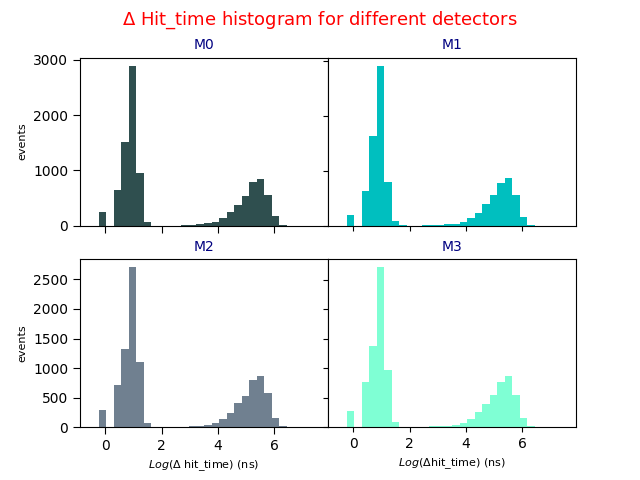
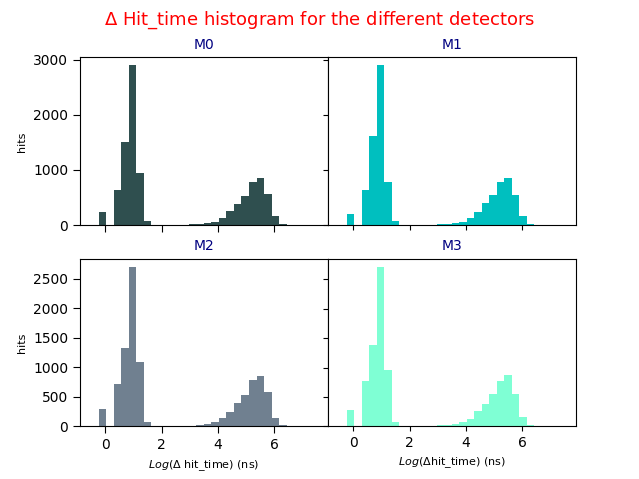
last updating version

diff --git a/E5/E5_e2.py b/E5/E5_e2.py
@@ -1,16 +1,20 @@
 #Esercitazione 5 esercizio 2
 
 #Dati
+#pacchetto get-mcf-data
 #python3 get_data.py --year 2023 --exn 5 --outdir percorso/cartella/esercitazione
 
 import sys, os
 import numpy as np
 import pandas as pd
+import matplotlib
+matplotlib.use('TkAgg') 
 import matplotlib.pyplot as plt
 import reco 
 
 #FUNCTIONS and TOOLS
 def Delta_ht(list):
+    """ crea un array con la differenza di tempo tra 2 Hit consecutivi"""
     delta=np.empty(0)
     for i in range(1, len(list)):
         term= (list[i] - list[i-1])
@@ -25,16 +29,19 @@ def Delta1_ht(hits):
     return delta
 
 def dati_to_events(datas):
-    eventi=np.empty(0)
+    """ produce un array di reco.Hit dagli hit registrati nei file"""
+    hits=np.empty(0)
     for i in range(1, datas.shape[0]):
         m=int(datas['mod_id'][i])
         d=int(datas['det_id'][i])
         h=int(datas['hit_time'][i])
         term= reco.Hit(m,d,h)
-        eventi=np.append(eventi,term)
-    return eventi
+        hits=np.append(hits,term)
+    return hits
 
-def all_reco(a1, a2): #a1 e a2 sono già ordinati temporalmente.
+def all_reco(a1, a2): 
+    """ ordina temporalmente 2 array di reco.Hit
+        NOTA: 'a1' e 'a2' sono già ordinati temporalmente. """
     delta= np.empty(0)
     s=0
     z=0
@@ -54,51 +61,50 @@ def all_reco(a1, a2): #a1 e a2 sono già ordinati temporalmente.
     return delta
 
 #PASSO 1
-M0_events=pd.read_csv('/home/nicola_polito/get-mcf-data/dati/ex5_data/hit_times_M0.csv')
-M1_events=pd.read_csv('/home/nicola_polito/get-mcf-data/dati/ex5_data/hit_times_M1.csv')
-M2_events=pd.read_csv('/home/nicola_polito/get-mcf-data/dati/ex5_data/hit_times_M2.csv')
-M3_events=pd.read_csv('/home/nicola_polito/get-mcf-data/dati/ex5_data/hit_times_M3.csv')
+M0_hits=pd.read_csv('/home/nicola_polito/MCF/dati/dati-e5/hit_times_M0.csv', sep=";")
+M1_hits=pd.read_csv('/home/nicola_polito/MCF/dati/dati-e5/hit_times_M1.csv', sep=";")
+M2_hits=pd.read_csv('/home/nicola_polito/MCF/dati/dati-e5/hit_times_M2.csv', sep=";")
+M3_hits=pd.read_csv('/home/nicola_polito/MCF/dati/dati-e5/hit_times_M3.csv', sep=";")
 
-
-print(M0_events.head())
-print(M0_events.columns)
+print(M0_hits.head())
+print(M0_hits.columns)
 
 # Hist Hit-Time
 fig1 = plt.figure()
 gs = fig1.add_gridspec(2,2, hspace=0.2, wspace=0)
-(ax1,ax2), (ax3, ax4) = gs.subplots()
-plt.suptitle(' Hit_time hitogram for different detectors ', fontsize=13, color = 'red')
+(ax1,ax2), (ax3, ax4) = gs.subplots(sharex=True)
+plt.suptitle(' Hit_time hitogram for the different detectors ', fontsize=13, color = 'red')
 
 #M0
-M0_log_events= np.log10(M0_events['hit_time'])
-n, bis, p = ax1.hist(M0_log_events, bins=40, range=(5,9.5), color='darkslategray')
+M0_log_hits= np.log10(M0_hits['hit_time'])
+n, bis, p = ax1.hist(M0_log_hits, bins=40, range=(5,9.5), color='darkslategray')
 ax1.set_title('M0', color='navy', fontsize=10)
-ax1.set_ylabel('events', fontsize=8)
+ax1.set_ylabel('hits', fontsize=8)
 ax1.set_xlabel('Log(hit_time) (ns)', fontsize=8)
 ax1.tick_params(axis='x', size=5)
 ax1.tick_params(axis='y',size=5)
 
 #M1
-M1_log_events= np.log10(M1_events['hit_time'])
-n, bis, p = ax2.hist(M1_log_events, bins=40, range=(5,9.5), color='c')
+M1_log_hits= np.log10(M1_hits['hit_time'])
+n, bis, p = ax2.hist(M1_log_hits, bins=40, range=(5,9.5), color='c')
 ax2.set_title('M1', color='navy', fontsize=10)
-ax2.set_ylabel('events', fontsize=8)
+ax2.set_ylabel('hits', fontsize=8)
 ax2.set_xlabel('Log(hit_time) (ns)', fontsize=8)
 
 #M2
-M2_log_events= np.log10(M2_events['hit_time'])
-n, bis, p = ax3.hist(M2_log_events, bins=40, range=(5,9.5), color='slategray')
+M2_log_hits= np.log10(M2_hits['hit_time'])
+n, bis, p = ax3.hist(M2_log_hits, bins=40, range=(5,9.5), color='slategray')
 ax3.set_title('M2', color='navy', fontsize=10)
-ax3.set_ylabel('events', fontsize=8)
+ax3.set_ylabel('hits', fontsize=8)
 ax3.set_xlabel('Log(hit_time) (ns)', fontsize=8)
 ax3.tick_params(axis='x', size=5)
 ax3.tick_params(axis='y',size=5)
 
 #M3
-M3_log_events= np.log10(M3_events['hit_time'])
-n, bis, p = ax4.hist(M3_log_events, bins=40, range=(5,9.5), color='aquamarine')
+M3_log_hits= np.log10(M3_hits['hit_time'])
+n, bis, p = ax4.hist(M3_log_hits, bins=40, range=(5,9.5), color='aquamarine')
 ax4.set_title('M3', color='navy', fontsize=10)
-ax4.set_ylabel('events', fontsize=8)
+ax4.set_ylabel('hits', fontsize=8)
 ax4.set_xlabel('Log(hit_time) (ns)', fontsize=8)
 
 for ax in fig1.get_axes():
@@ -109,102 +115,118 @@ plt.show()
 #Hist Delta Hit Time
 fig2 = plt.figure()
 gs = fig2.add_gridspec(2,2, hspace=0.2, wspace=0)
-(ax1,ax2), (ax3, ax4) = gs.subplots()
-plt.suptitle('$\Delta$ Hit_time histogram for different detectors ', fontsize=13, color = 'red')
+(ax1,ax2), (ax3, ax4) = gs.subplots(sharex=True)
+plt.suptitle(r'$\Delta$ Hit_time histogram for the different detectors ', fontsize=13, color = 'red')
 
 #M0
-delta_M0=Delta_ht(M0_events['hit_time'])
-dM0_log_events=np.log10(delta_M0)
-n, bis, p = ax1.hist(dM0_log_events, bins=30, range=(-0.5, 7.5), color='darkslategray')
+delta_M0=Delta_ht(M0_hits['hit_time'])
+dM0_log_hits=np.log10(delta_M0)
+n, bis, p = ax1.hist(dM0_log_hits, bins=30, range=(-0.5, 7.5), color='darkslategray')
 ax1.set_title('M0', color='navy', fontsize=10)
-ax1.set_ylabel('events', fontsize=8)
-ax1.set_xlabel('$Log(\Delta$ hit_time) (ns)', fontsize=8)
+ax1.set_ylabel('hits', fontsize=8)
+ax1.set_xlabel(r'$Log(\Delta$ hit_time) (ns)', fontsize=8)
 ax1.tick_params(axis='x', size=5)
 ax1.tick_params(axis='y',size=5)
 
-#M2
-delta_M1=Delta_ht(M1_events['hit_time'])
-dM1_log_events=np.log10(delta_M1)
-dM1_log_events=np.log10(Delta_ht(M1_events['hit_time']))
-n, bis, p = ax2.hist(dM1_log_events, bins=30, range=(-0.5, 7.5), color='c')
+#M1
+delta_M1=Delta_ht(M1_hits['hit_time'])
+dM1_log_hits=np.log10(delta_M1)
+dM1_log_hits=np.log10(Delta_ht(M1_hits['hit_time']))
+n, bis, p = ax2.hist(dM1_log_hits, bins=30, range=(-0.5, 7.5), color='c')
 ax2.set_title('M1', color='navy', fontsize=10)
-ax2.set_ylabel('events', fontsize=8)
-ax2.set_xlabel('$Log(\Delta$ hit_time) (ns)', fontsize=8)
+ax2.set_ylabel('hits', fontsize=8)
+ax2.set_xlabel(r'$Log(\Delta$ hit_time) (ns)', fontsize=8)
 
 #M2
-delta_M2=Delta_ht(M2_events['hit_time'])
-dM2_log_events=np.log10(delta_M2)
-dM2_log_events=np.log10(Delta_ht(M2_events['hit_time']))
-n, bis, p = ax3.hist(dM2_log_events, bins=30, range=(-0.5, 7.5), color='slategray')
+delta_M2=Delta_ht(M2_hits['hit_time'])
+dM2_log_hits=np.log10(delta_M2)
+dM2_log_hits=np.log10(Delta_ht(M2_hits['hit_time']))
+n, bis, p = ax3.hist(dM2_log_hits, bins=30, range=(-0.5, 7.5), color='slategray')
 ax3.set_title('M2', color='navy', fontsize=10)
-ax3.set_ylabel('events', fontsize=8)
-ax3.set_xlabel('$Log(\Delta$ hit_time) (ns)', fontsize=8)
+ax3.set_ylabel('hits', fontsize=8)
+ax3.set_xlabel(r'$Log(\Delta$ hit_time) (ns)', fontsize=8)
 ax3.tick_params(axis='x', size=5)
 ax3.tick_params(axis='y',size=5)
 
 #M3
-delta_M3=Delta_ht(M3_events['hit_time'])
-dM3_log_events=np.log10(delta_M3)
-dM3_log_events=np.log10(Delta_ht(M3_events['hit_time']))
-n, bis, p = ax4.hist(dM3_log_events, bins=30, range=(-0.5, 7.5), color='aquamarine')
+delta_M3=Delta_ht(M3_hits['hit_time'])
+dM3_log_hits=np.log10(delta_M3)
+dM3_log_hits=np.log10(Delta_ht(M3_hits['hit_time']))
+n, bis, p = ax4.hist(dM3_log_hits, bins=30, range=(-0.5, 7.5), color='aquamarine')
 ax4.set_title('M3', color='navy', fontsize=10)
-ax4.set_ylabel('events', fontsize=8)
-ax4.set_xlabel('$Log(\Delta $hit_time) (ns)', fontsize=8)
+ax4.set_ylabel('hits', fontsize=8)
+ax4.set_xlabel(r'$Log(\Delta $hit_time) (ns)', fontsize=8)
 
 for ax in fig2.get_axes():
     ax.label_outer()
 
 plt.show()
 
-fig1.savefig('E5/hit_time hist.png')
-fig2.savefig('E5/delta_hit_time hist.png')
+fig1.savefig('hit_time hist.png')
+fig2.savefig('delta_hit_time hist.png')
 
 '''
 INTERPRETAZIONE DEI GRAFICI:
-Gli istogrammi degli hit times per i 4 differenti moduli mostrano che ci sono molti eventi di hit verso la fine dell'acquisizione(in particolare intorno ai 0.7 s) 
- e pochi all'inizio della stessa e ciò è vero per tutti e 4 i moduli.
-Gli istogrammi della differenza tra due hit time successivi mostrano che vi sono degli eventi che hanno uno delta_hit molto piccolo (eventi molto vicini tra di loro), 
-mentre quasi tutti gli altri presentano una differenza temporale molto più significativa. In particolare, quasi nessun evento ha una distanza temporale dal successivo compresa tra 40 e 5600 ns 
-e, poichè gli hit appartenenti ad uno stesso evento saranno presumibilmente raggruppati nel tempo, mentre hit relativi ad eventi diversi avranno una separazione temporale maggiore,
+Gli istogrammi degli hit times per i 4 differenti moduli mostrano che ci sono molti eventi di hit
+verso la fine dell'acquisizione (in particolare intorno ai 0.7 s) e pochi all'inizio della stessa,
+e ciò è vero per tutti e 4 i moduli.
+
+Gli istogrammi della differenza tra due hit time successivi mostrano che la maggior parte degli eventi
+hanno un delta_hit molto piccolo (eventi molto vicini tra di loro), 
+mentre tutti gli altri presentano una differenza temporale più significativa.
+ 
+In particolare, quasi nessun evento ha una distanza temporale dal successivo compresa tra 40 e 5600 ns e,
+poichè gli hit appartenenti ad uno stesso evento saranno presumibilmente raggruppati nel tempo,
+mentre hit relativi ad eventi diversi avranno una separazione temporale maggiore,
 ciò distingue tra un evento di interesse e un evento di non interesse.
-Complessivamente si può evincere che si hanno eventi di interesse verso la fine dell'acquisizione registrati da tutti e 4 i moduli.
+
+Complessivamente si può evincere che si hanno eventi di interesse verso la fine dell'acquisizione
+registrati da tutti e 4 i moduli.
+
 '''
 
 #PASSO 3
 #reco.Hit arrays
-print(type(M0_events))
+print(type(M0_hits))
 
-array_M0_events= dati_to_events(M0_events) 
-array_M1_events= dati_to_events(M1_events)
-array_M2_events= dati_to_events(M2_events)
-array_M3_events= dati_to_events(M3_events)
+array_M0_hits= dati_to_events(M0_hits) 
+array_M1_hits= dati_to_events(M1_hits)
+array_M2_hits= dati_to_events(M2_hits)
+array_M3_hits= dati_to_events(M3_hits)
 
-print(type(array_M0_events[3])) #array di reco.Hit
-print(type(array_M0_events[3].id_module)) #ora sono int
+print(type(array_M0_hits[3])) #array di reco.Hit
+print(type(array_M0_hits[3].id_module)) #ora sono int
 
 print('\n')
-print(array_M0_events[0], '\n')
+print(array_M0_hits[0], '\n')
 
 #all_reco.Hit
-arr1=all_reco(array_M0_events, array_M1_events)
+arr1=all_reco(array_M0_hits, array_M1_hits)
 print(len(arr1)) # dovrebbe essere 20384
-arr2=all_reco(arr1, array_M2_events)
+arr2=all_reco(arr1, array_M2_hits)
 print(len(arr2)) # dovrebbe essere 30577
-all_ord_events=all_reco(arr2, array_M3_events)
-print(len(all_ord_events)) #dovrebbe essere 40730
+all_ord_hits=all_reco(arr2, array_M3_hits)
+print(len(all_ord_hits)) #dovrebbe essere 40730
 
 
 #Istogramma dei delta_t tra RECO.HIT consecutivi
-delta_all= Delta1_ht(all_ord_events)
+
+
+delta_all= Delta_ht(all_ord_hits)
 print(len(delta_all)) #dovrebbe essere 40729
 delta_all_log= np.log10(delta_all)
 
-n, bis, p = plt.hist(delta_all_log, bins=35, range=(-0.5, 7.5), color='darkslategray', label='all_events')
+n, bis, p = plt.hist(delta_all_log, bins=35, range=(-0.5, 7.5), color='darkslategray', label='all_hits')
 plt.suptitle('Hinstogram of $\Delta_t$ for all hits', color='red')
 plt.xlabel('$Log(\Delta$ hit_time)', fontsize=10)
-plt.ylabel('Events', fontsize=10)
+plt.ylabel('hits', fontsize=10)
 plt.legend(fontsize=10)
+plt.savefig('delta_t for all hits.png')
 plt.show()
-plt.savefig('E5/delta_t for all hits.png')
 
-#Come stabilire la finestra temporale da applicare ai $\Delta t$ che permetta di raggruppare gli *Hit* dello stesso evento ma separi quelli apparteneti ad eventi differenti?
+
+""" Come stabilire la finestra temporale da applicare ai $\Delta t$
+    che permetta di raggruppare gli *Hit* dello stesso evento ma separi
+    quelli apparteneti ad eventi differenti?
+    Pensare a come dovrebbe essere strutturata una eventuale classe Event
+    per descrivere l'evento fisico come osservato dal rivelatore (quindi basata suglli Hit). """

diff --git a/E5/reco.py b/E5/reco.py
@@ -17,34 +17,36 @@ class Hit:
         self.id_detector=dect
         self.hit_time_rev= ht
 
+    # //
     def __repr__(self):
-        return 'Module: {:} __ Detector: {:} __ hit_time {:}'.format(self.id_module, self.id_detector, self.hit_time_rev)
+        return 'Module: {:} __ Detector: {:} __ hit_time: {:}'.format(self.id_module, self.id_detector, self.hit_time_rev)
     
     def __str__(self):
-        return 'Module: {:} -- Detector: {:} -- hit_time {:}'.format(self.id_module, self.id_detector, self.hit_time_rev)
+        return 'Module: {:} -- Detector: {:} -- hit_time: {:}'.format(self.id_module, self.id_detector, self.hit_time_rev)
 
-    def __eq__(self, other):
-        return self.hit_time_rev == other.hit_time_rev
-    
+
+    #COMPARATORI DI CONFRONTO
+
     def __lt__(self, other):
         return self.hit_time_rev < other.hit_time_rev
     
     def __gt__(self, other):
         return self.hit_time_rev > other.hit_time_rev
-    
-    def __sub__(self, other):
-        return self.hit_time_rev - other.hit_time_rev
-    
-    def __add__(self, other):
-        return self.hit_time_rev + other.hit_time_rev
 
-    def pos_module(self, other): #ordina 2 hit time in base al modulo dal quale sono stati rilevati
+    #//
+    def __eq__(self, other):
+        return self.hit_time_rev == other.hit_time_rev 
+
+    def pos_module(self, other): 
+        """ ordina 2 hit time in base al modulo dal quale sono stati rilevati """
         ord = False
         if(self.id_module<other.id_module or self.id_module==other.id_module):
             ord=True
         return ord
         
-    def pos_detector(self, other): #ordina 2 hit time in base al sensore dal quale sono stati rivelati (se sono relativi a 2 moduli diversi prevale il numero del modulo)
+    def pos_detector(self, other): 
+        """ ordina 2 hit time in base al sensore dal quale sono stati rivelati 
+            (se sono relativi a 2 moduli diversi, prevale il numero del modulo) """
         ord=False
         if(self.id_module == other.id_module):
             ord = self.id_detector < other.id_detector
@@ -52,13 +54,16 @@ class Hit:
             ord = self.pos_module(self,other)
         return ord
     
-    def ord_module(self, other): #ordina 2 hit time uguali in base al modulo dal quale sono stati rivelati.
+    def ord_module(self, other): 
+        """ ordina 2 hit time UGUALI in base al modulo dal quale sono stati rivelati. """
         ord = False
         if (self.hit_time_rev == other.hit_time_rev):
             ord= self.pos_module(self, other)
         return ord
         
-    def ord_detector(self, other): #ordina 2 hit time uguali in base al sensore dal quale sono stati rilevati(se sono relativi a due moduli diversi prevale il numero del modulo)
+    def ord_detector(self, other): 
+        """ ordina 2 hit time UGUALI in base al sensore dal quale sono stati rilevati
+            (se sono relativi a due moduli diversi, prevale il numero del modulo) """
         ord= False
         if (self.hit_time_rev == other.hit_time_rev):
             if(self.id_module == other.id_module):
@@ -66,6 +71,13 @@ class Hit:
             else:
                 ord = self.pos_module(self, other)              
         return ord
+    
+    #//
+    def __sub__(self, other):
+        return self.hit_time_rev - other.hit_time_rev
+    
+    def __add__(self, other):
+        return self.hit_time_rev + other.hit_time_rev
 
     
 
